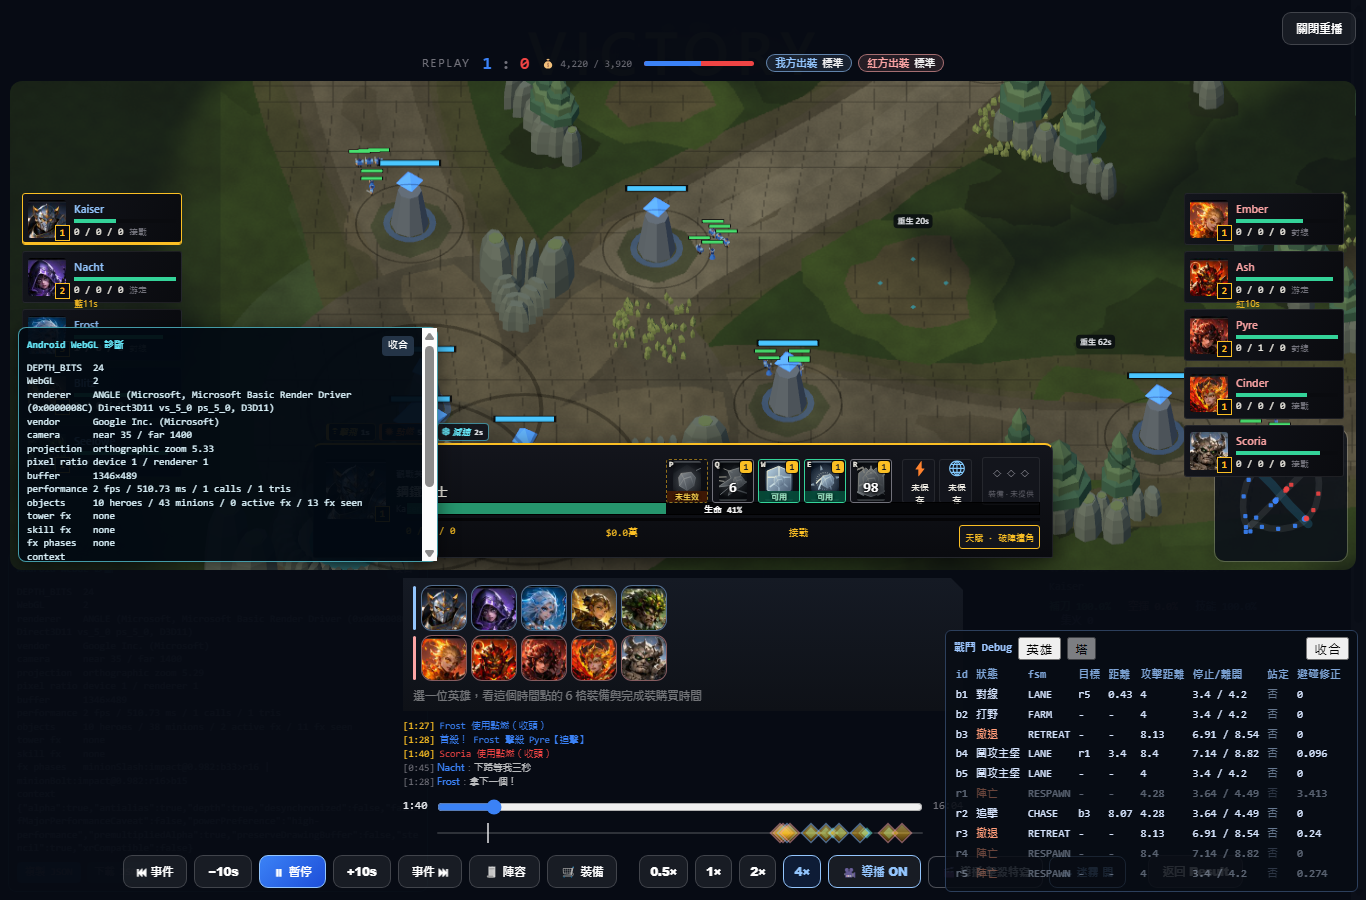
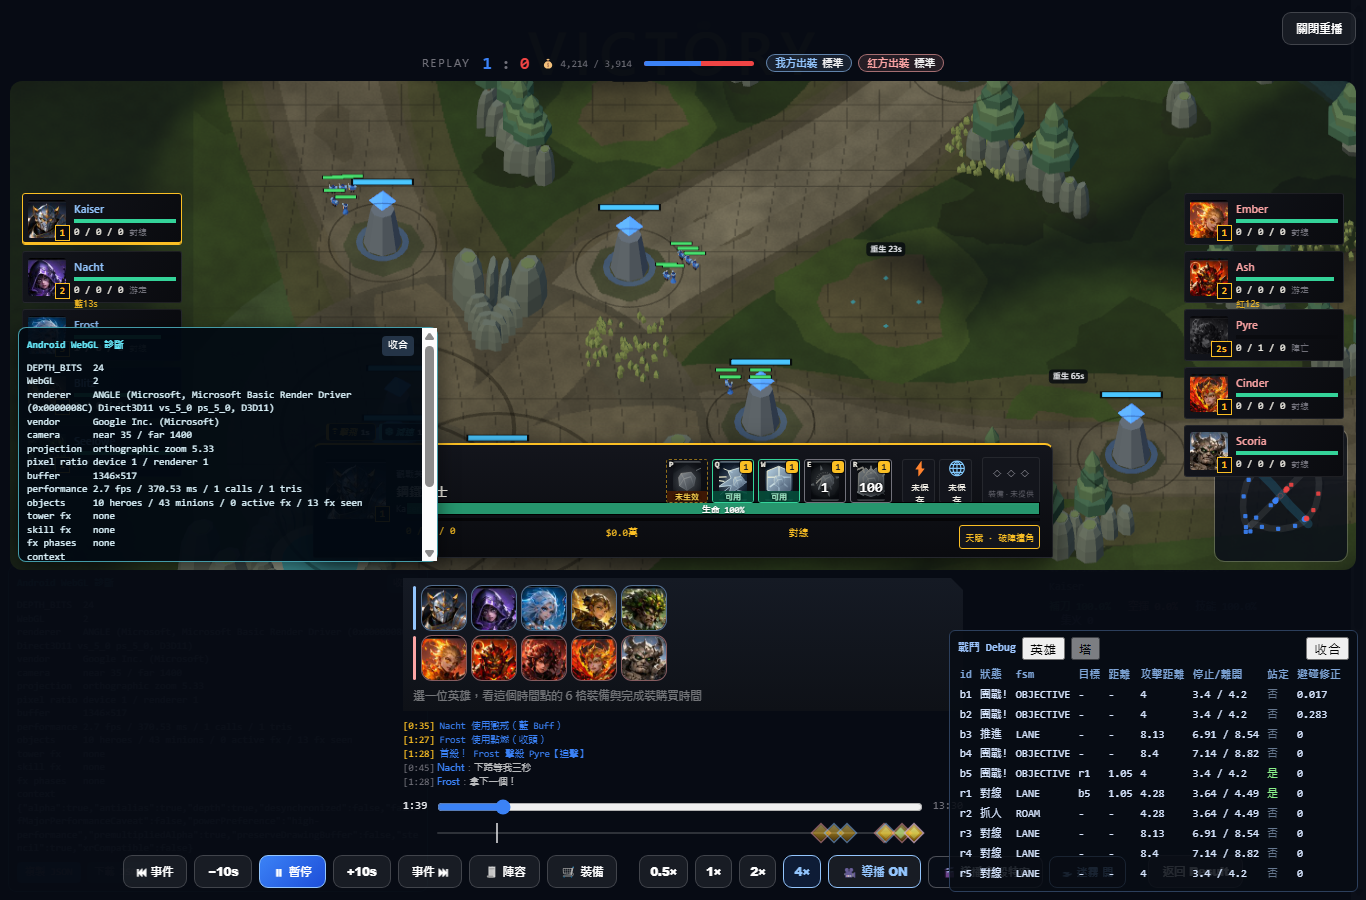
Sprint MOBA Persistent Combat State v1: mark RELEASED after production smoke

diff --git a/docs/handoff/05_Sprint紀錄.md b/docs/handoff/05_Sprint紀錄.md
@@ -23959,3 +23959,22 @@ CS_RESUME_HOTFIX = RELEASED（main cfca594 → a7afc5c）
 - 英雄狀態的 `startedAt` 為觀察時刻（≤0.5 秒）；暈眩／定身／減傷等未帶 sourceId；無 channel 類 mechanic。
 - 快速完成的 Replay：刷新時刻與護盾量解析度 1 秒（狀態種類與開始／結束仍精確）。
 - 未經真機實測：CombatZones 地面領域的視覺、手機效能。
+
+
+## 2026-09-30 MOBA Persistent Combat State v1 正式 Release（RELEASED）
+
+- Owner Review 通過（決策：本輪 Release；TD-CS1 不修、留待下一個 simulation release；objectiveStakesV1／nexusSiegeCapV1／heroPassivesV1 維持 OFF）。
+- Release 前整理：
+  - `cbd3a30`（未推送）拆掉兩個純換行檔：`browser_check_moba_gameplay_presentation.mjs` 恢復 75f44c8 原樣；
+    `moba_objective_ab.mjs` 保留本輪必要的 4 行、維持原 CRLF。重新提交為 feature commit `86a70a0`。
+  - `afa121f`：`docs/ai/跨模型交接流程.md` §0 改為實際基線（main 75f44c8、moba-sim.v15、候選旗標、下一階段 P0）；AGENTS.md §11 不再寫死舊 SHA。
+  - `35fa134`：CombatState 瀏覽器 gate 加正式站模式（--prod）。
+- 整合：fetch 後 origin/main 仍為 `75f44c8` ⇒ fast-forward，一般 push（未 force）：`75f44c8..35fa134`。無 gameplay 語意衝突 ⇒ 未重跑 n=1000。
+- Deploy：GitHub Pages run `36606426923` success；線上 entry `index-EL80O2JI.js`（含 moba-sim.v15、CombatState.v1、CombatStateReplay.v1、領域元件）。
+- 最終 HEAD gate：build ✓；check_moba_combat_state_v1 15/15；simulation_version 56/56；hero_skills_release_gate PASS；skill_levels 400/400；
+  talents 200/200；items_m2 53/53；regress 15/15；regress2 8/8；verify experience26／presentation29b2／controls29b3／runtime29 重跑後全套 102 段與 main 相同、新紅燈 0；
+  browser_check_moba_combat_state_v1（本地）13/13。
+- 正式站 smoke：browser_check_moba_combat_state_v1 --prod **14/14**；browser_check_moba_gameplay_presentation --prod **11/11**；
+  browser_check_prod_moba_result_replay_release **25/25**。
+- 如實記錄：持續技能支援 **271/273（99.3%）**；fallback 兩個＝liuxing:Q、miwu:E（TD-CS1）。**moba-sim 仍為 v15**。
+- **CombatState.v1 = RELEASED YES**。

diff --git a/docs/ai/跨模型交接流程.md b/docs/ai/跨模型交接流程.md
@@ -10,8 +10,8 @@
 
 ### 0.1 目前正式基線
 
-- **main / origin/main = `75f44c8`**（2026-09-29 MOBA Gameplay／Presentation Release，GitHub Pages success）。
-  其上的 **Persistent Combat State v1（CombatState.v1）** 正在 Release（完成後見 05 最後一節與本節 0.2）。
+- **main / origin/main = `35fa134`**（2026-09-30 MOBA Persistent Combat State v1 RELEASED，GitHub Pages run 36606426923 success；
+  前一個 Release 基線為 `75f44c8`）。
 - **MOBA simulation = `moba-sim.v15`**（`src/platform/contracts/simulationVersion.js`）。v15 之後的 Release 都是
   **非語意變更**（同版號重新登記語意指紋，附逐位元不變證據）。v1–v14 的歷史 Challenge 由 `canReplay` 明確拒絕。
 - 預設關閉、**不得未經 Owner 決定就開啟**的候選規則（v3 規則集）：`objectiveStakesV1`、`nexusSiegeCapV1`、`heroPassivesV1`。
@@ -22,7 +22,7 @@
 
 | 功能 | main | 重點 |
 |---|---|---|
-| MOBA Persistent Combat State v1 | （Release 中） | DoT／領域／護盾／控制／增減益／隱身的生命期由引擎推導進 `snapshot.combatStates` 與 `replay.combatStates`；受控矩陣 271/273 技能完整支援；模擬結果逐位元不變 |
+| MOBA Persistent Combat State v1 | `35fa134` | DoT／領域／護盾／控制／增減益／隱身的生命期由引擎推導進 `snapshot.combatStates` 與 `replay.combatStates`；受控矩陣 271/273 技能完整支援；模擬結果逐位元不變 |
 | MOBA Gameplay／Presentation | `75f44c8` | 技能 VFX 時長對齊、隱身呈現、血條刻度／護盾段、升級回饋、底欄狀態 HUD、英雄生涯／圖鑑技能圖示、Mobile UI P1 |
 | MOBA Mobile & Presentation Polish | `d9d9d88` | moba-sim.v15（兵線錨定）、手機 5v5 戰況列、小地圖觸控、裝備圖示、小兵造型 |
 | Online Backend Foundation v1 | `9dd0f0f` | 線上後端地基（Supabase 未接正式憑證） |

diff --git a/docs/handoff/06_目前主幹架構.md b/docs/handoff/06_目前主幹架構.md
@@ -2576,3 +2576,14 @@ Formal `heroSkillsV1` remains OFF. Existing Item v1, Fairness P0-A through P0-D,
 - Production deploy：Deploy Vite site to GitHub Pages #268／36401807251 success；production URL HTTP 200。live smoke 已看到 MOBA battle 持續播放、P/Q/W/E/R HUD、Q skill detail 與 Lv2 數值、Battle Talent 詳情及戰鬥 VFX event。BattleResult.v3／v2 Replay targeted verifier 通過；production quick-finish 的同步模擬在 automation 中未能讀取結果頁，未把該 automation 狀態誤報為 PASS。
 - Android real-device FPS／touch／thermal：DEFERRED_BY_OWNER；不是本次 release blocker，也不宣稱 PASS。
 - v14 = RELEASED YES。未修改 Finance WIP、Blue bias、flicker、Tower、Smite、Competitive、Online Backend、legacy path、Passive P gameplay。
+
+
+## 2026-09-30 CombatState.v1（持續狀態生命期）
+
+- 權威來源仍是 gameplay 欄位（p.*Until／因子／來源、shield、heroSkillPending 的領域與 root-dot）。
+- `LogicEngine._statusEffectsOf(p)`：唯一讀取點（snapshot.statusEffects 與生命期追蹤共用）。
+- `LogicEngine._combatStateStep()`：每 tick 末端推導生命期（開始／到期／結束原因／seq），不回寫 gameplay、不耗 rng；gameplay 不讀 `this._cs`。
+- `snapshot.combatStates`（hero skills 開啟時）→ adapter `frame.zones` → `render/CombatZones.jsx`；statusEffects → HUD／HeroStatusFx。
+- Replay：`battle/moba/replay/combatStateReplay.js` → `replay.combatStates`（CombatStateReplay.v1，optional additive）→ `replayPresentationSource.seek(t)` 還原同形狀資料。形狀檢查在 `platform/contracts/mobaReplay.js`。
+- 驗證：`tools/check_moba_combat_state_v1.mjs`、`tools/check_moba_combat_state_matrix.mjs`、`tools/browser_check_moba_combat_state_v1.mjs`（--prod 可打正式站）。
+- 詳見 `docs/design/MOBA_Persistent_Combat_State_v1.md`。

diff --git a/docs/handoff/08_目前待辦與風險.md b/docs/handoff/08_目前待辦與風險.md
@@ -13186,3 +13186,10 @@ NEXT_SPRINT = NOT_STARTED
 - 現象：liuxing:Q、miwu:E 的規則宣告 slowDuration（1.2／1.0 秒），技能詳情顯示減速，但 LogicEngine 的 hit() 只在 mechanic === projectile 時套減速 ⇒ 實戰從不減速。
 - 證據：tools/check_moba_combat_state_matrix.mjs 受控情境 NOT_APPLIED（其餘 271/273 技能完整支援）。
 - 修正方式：hit() 的減速條件納入 split-projectile。會改變模擬結果 ⇒ 需 moba-sim.v16 與 A/B，由 Owner 決定；check_moba_combat_state_v1 X1 以名單釘住（修好後須同步移除）。
+
+
+## 2026-09-30 Persistent Combat State v1 — RELEASED
+
+- main `35fa134`（Pages run 36606426923 success）；正式站 smoke 14/14＋11/11＋25/25；moba-sim.v15 不變。
+- **TD-CS1 仍開啟**（liuxing:Q、miwu:E 減速未接線），留待下一個 simulation release（v16）；`check_moba_combat_state_v1` X1 以名單釘住，修好時同步移除。
+- 既有注意事項：3D 畫面統一落後 frameRef 一幀（既有架構）；快速完成的 Replay 刷新時刻與護盾量解析度 1 秒；CombatZones 視覺未經真機實測。

diff --git a/docs/handoff/04_Roadmap.md b/docs/handoff/04_Roadmap.md
@@ -2795,3 +2795,12 @@ NEXT_SPRINT = NOT_STARTED
 4. **Tactical Identity**：英雄前／中／後期曲線與賽前戰術真正接入正式 simulation（TeamTacticProfile → 既有決策點；紅方 AI 戰術來源；Live 與 Challenge 同一 builder）。
 
 **主堡**：cap=6 **不啟用**；後續比較 cap 6／8／10（同一 A/B 工具，`nexusSiegeCapK`）再決定。
+
+
+## 2026-09-30 更新：MOBA 正式 P0 進度
+
+1. ~~Persistent Combat State / Replay~~ — **v1 RELEASED**（main `35fa134`）；剩 TD-CS1（split-projectile 減速）併入下一個 simulation release。
+2. Objective Stakes v1 — 待辦：正式 n=1000 A/B → Owner 決定（啟用＝v16）。
+3. Passive P Runtime — 待辦：可重用 trigger primitives → 100 heroes。
+4. Tactical Identity — 待辦：英雄曲線＋賽前戰術接入正式 simulation。
+- 下一個 simulation release（v16）候選內容：TD-CS1 修正；是否同時開 Objective Stakes／Nexus cap（6／8／10 比較）由 Owner 決定。

diff --git a/docs/handoff/00_目前專案狀態.md b/docs/handoff/00_目前專案狀態.md
@@ -2630,3 +2630,10 @@ ONLINE_FOUNDATION = LOCAL ONLY (integrate/online-foundation, not merged)
 - 另兩個 smoke 首跑紅燈是**斷言錯誤**已修正：VFX `counts` 是當幀值（每幀 `fill(0)`）需連續取樣；重播開啟即自動播放（`useState(true)`），按一次是暫停。
 - 既有風險（未處理，候選技術債）：WebGL context 遺失時整棵 React 樹被卸載成白畫面（無 error boundary），新舊版相同。Android 真機 FPS／觸控／熱量仍未實機驗收。
 - **v15 = RELEASED YES**。
+
+
+## 2026-09-30 狀態快照
+
+- main `35fa134`：MOBA Persistent Combat State v1 RELEASED（DoT／領域／護盾／控制／增減益／隱身的生命期進 snapshot 與 Replay）。moba-sim.v15 不變。
+- 預設關閉的候選：objectiveStakesV1、nexusSiegeCapV1、heroPassivesV1。已知技術債：TD-CS1（split-projectile 減速未接線）。
+- 下一階段 P0 見 `docs/handoff/04_Roadmap.md` 2026-09-30 一節；不得自動開始。
